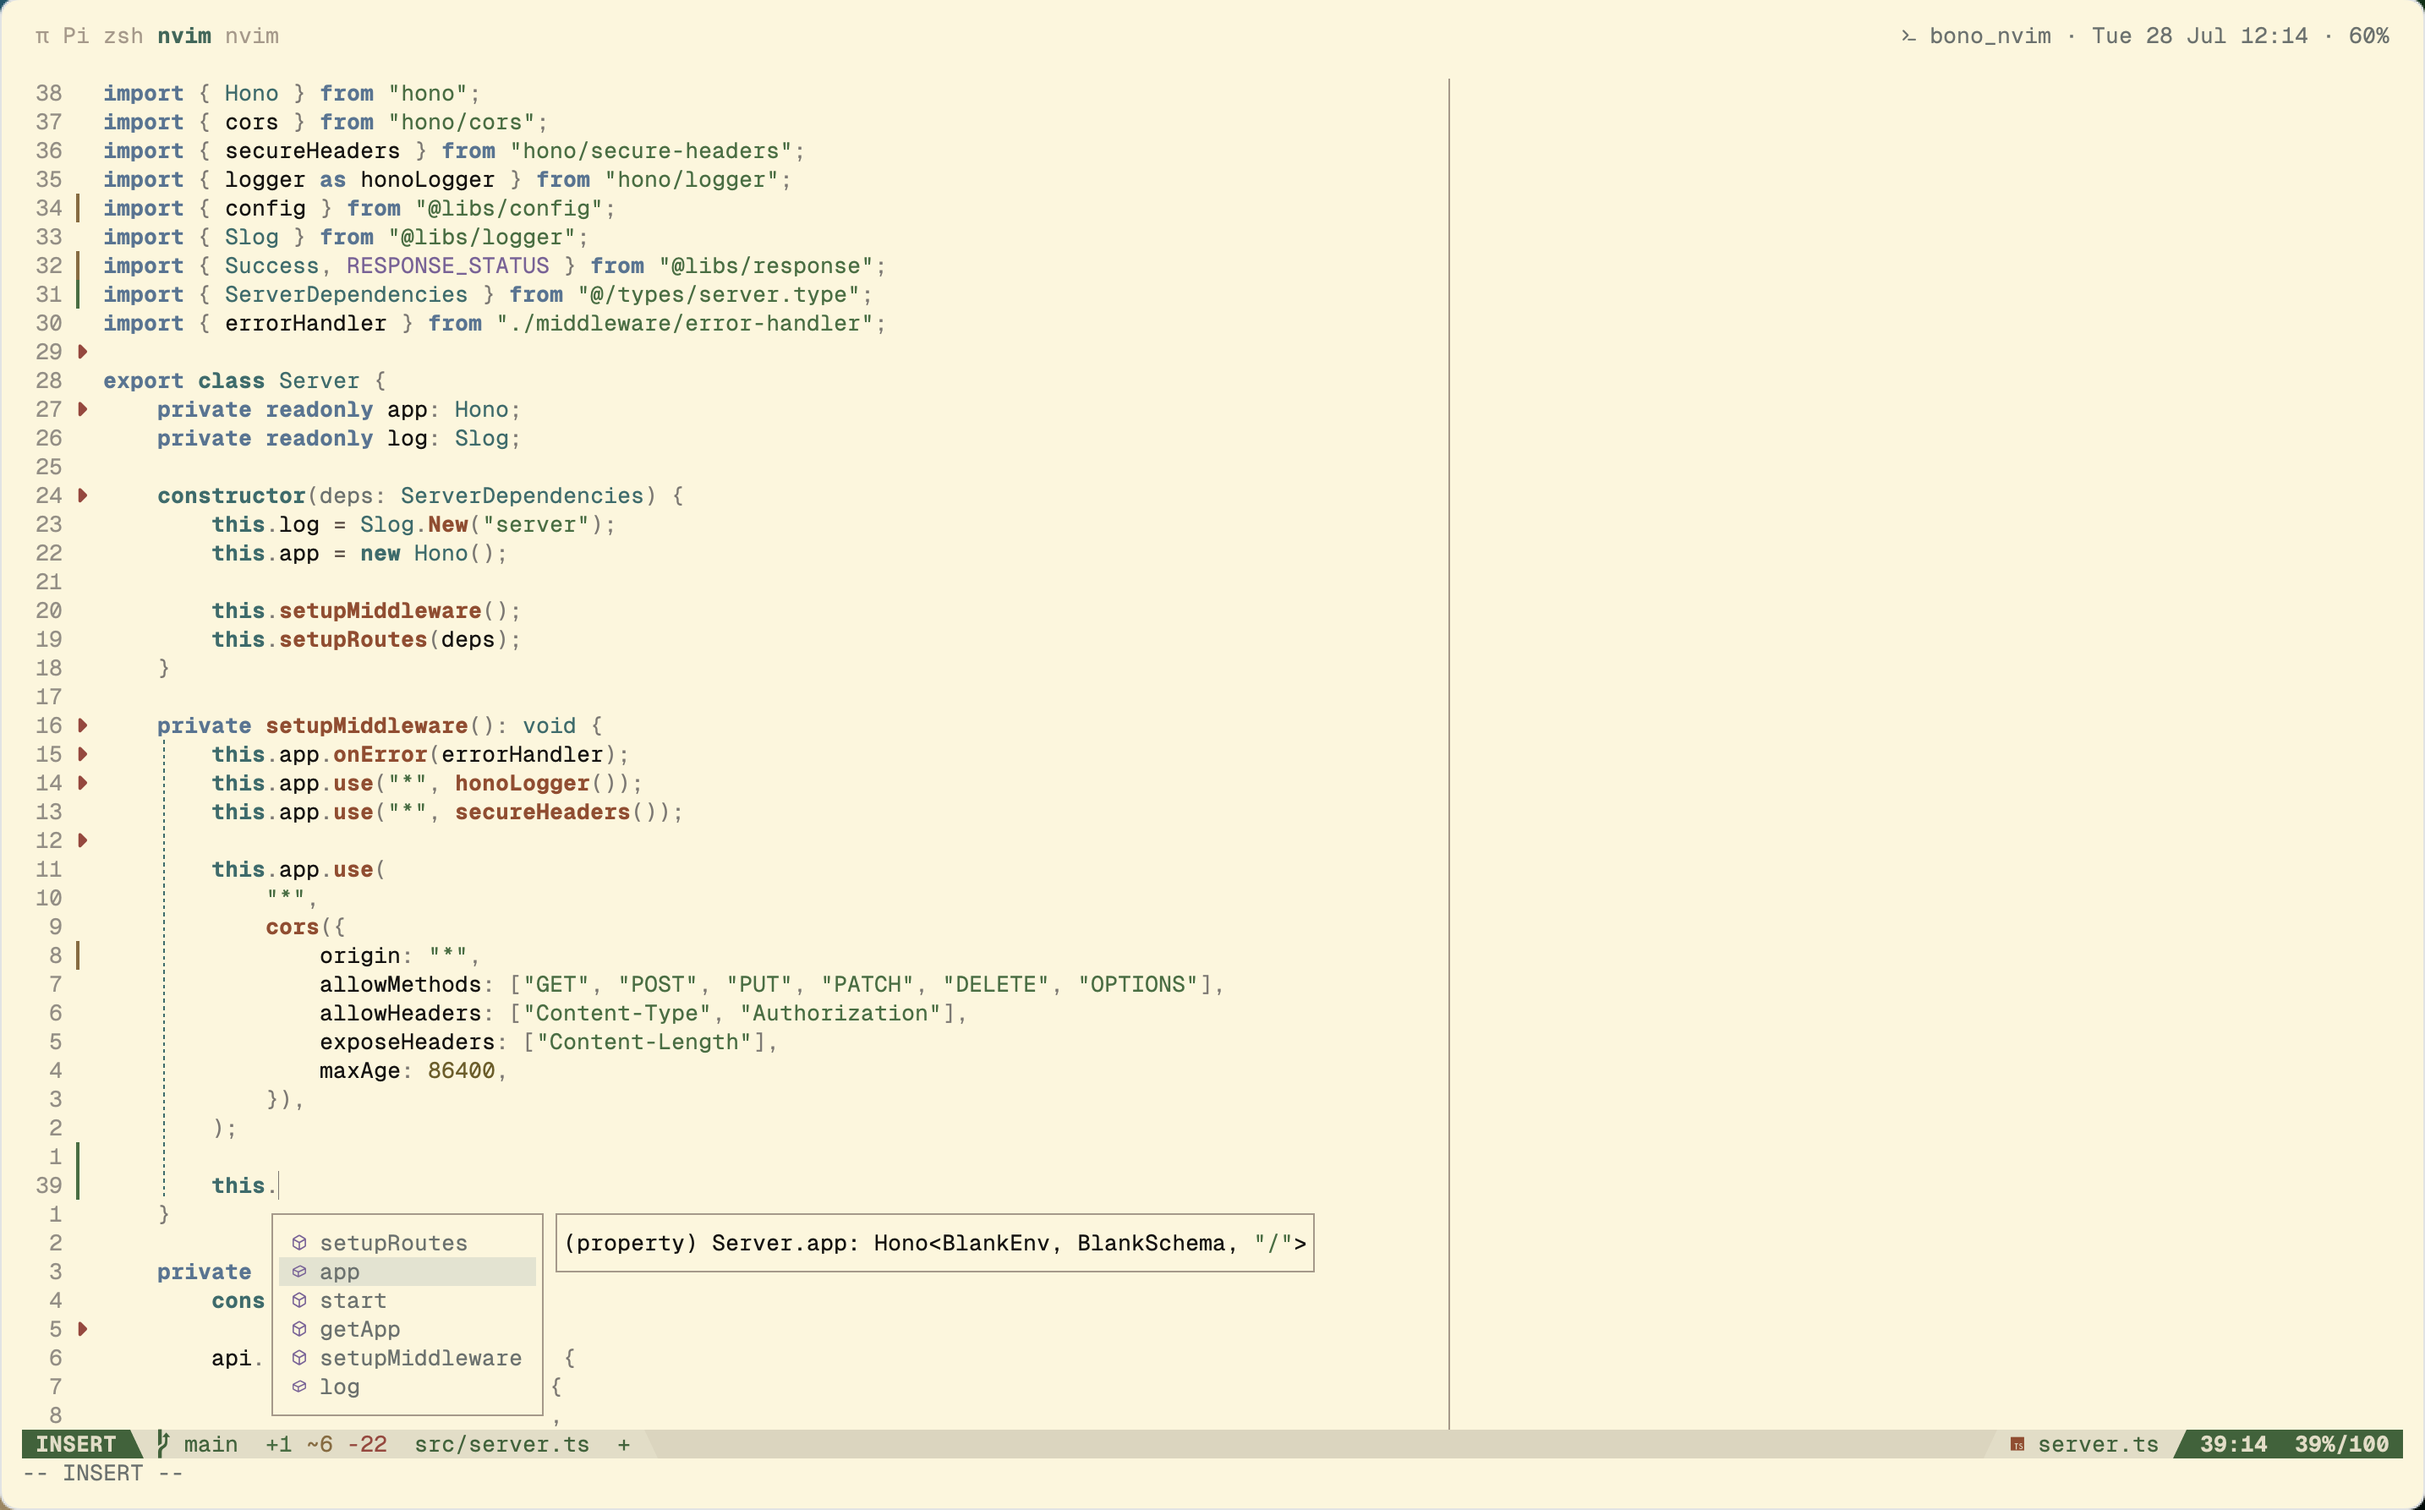
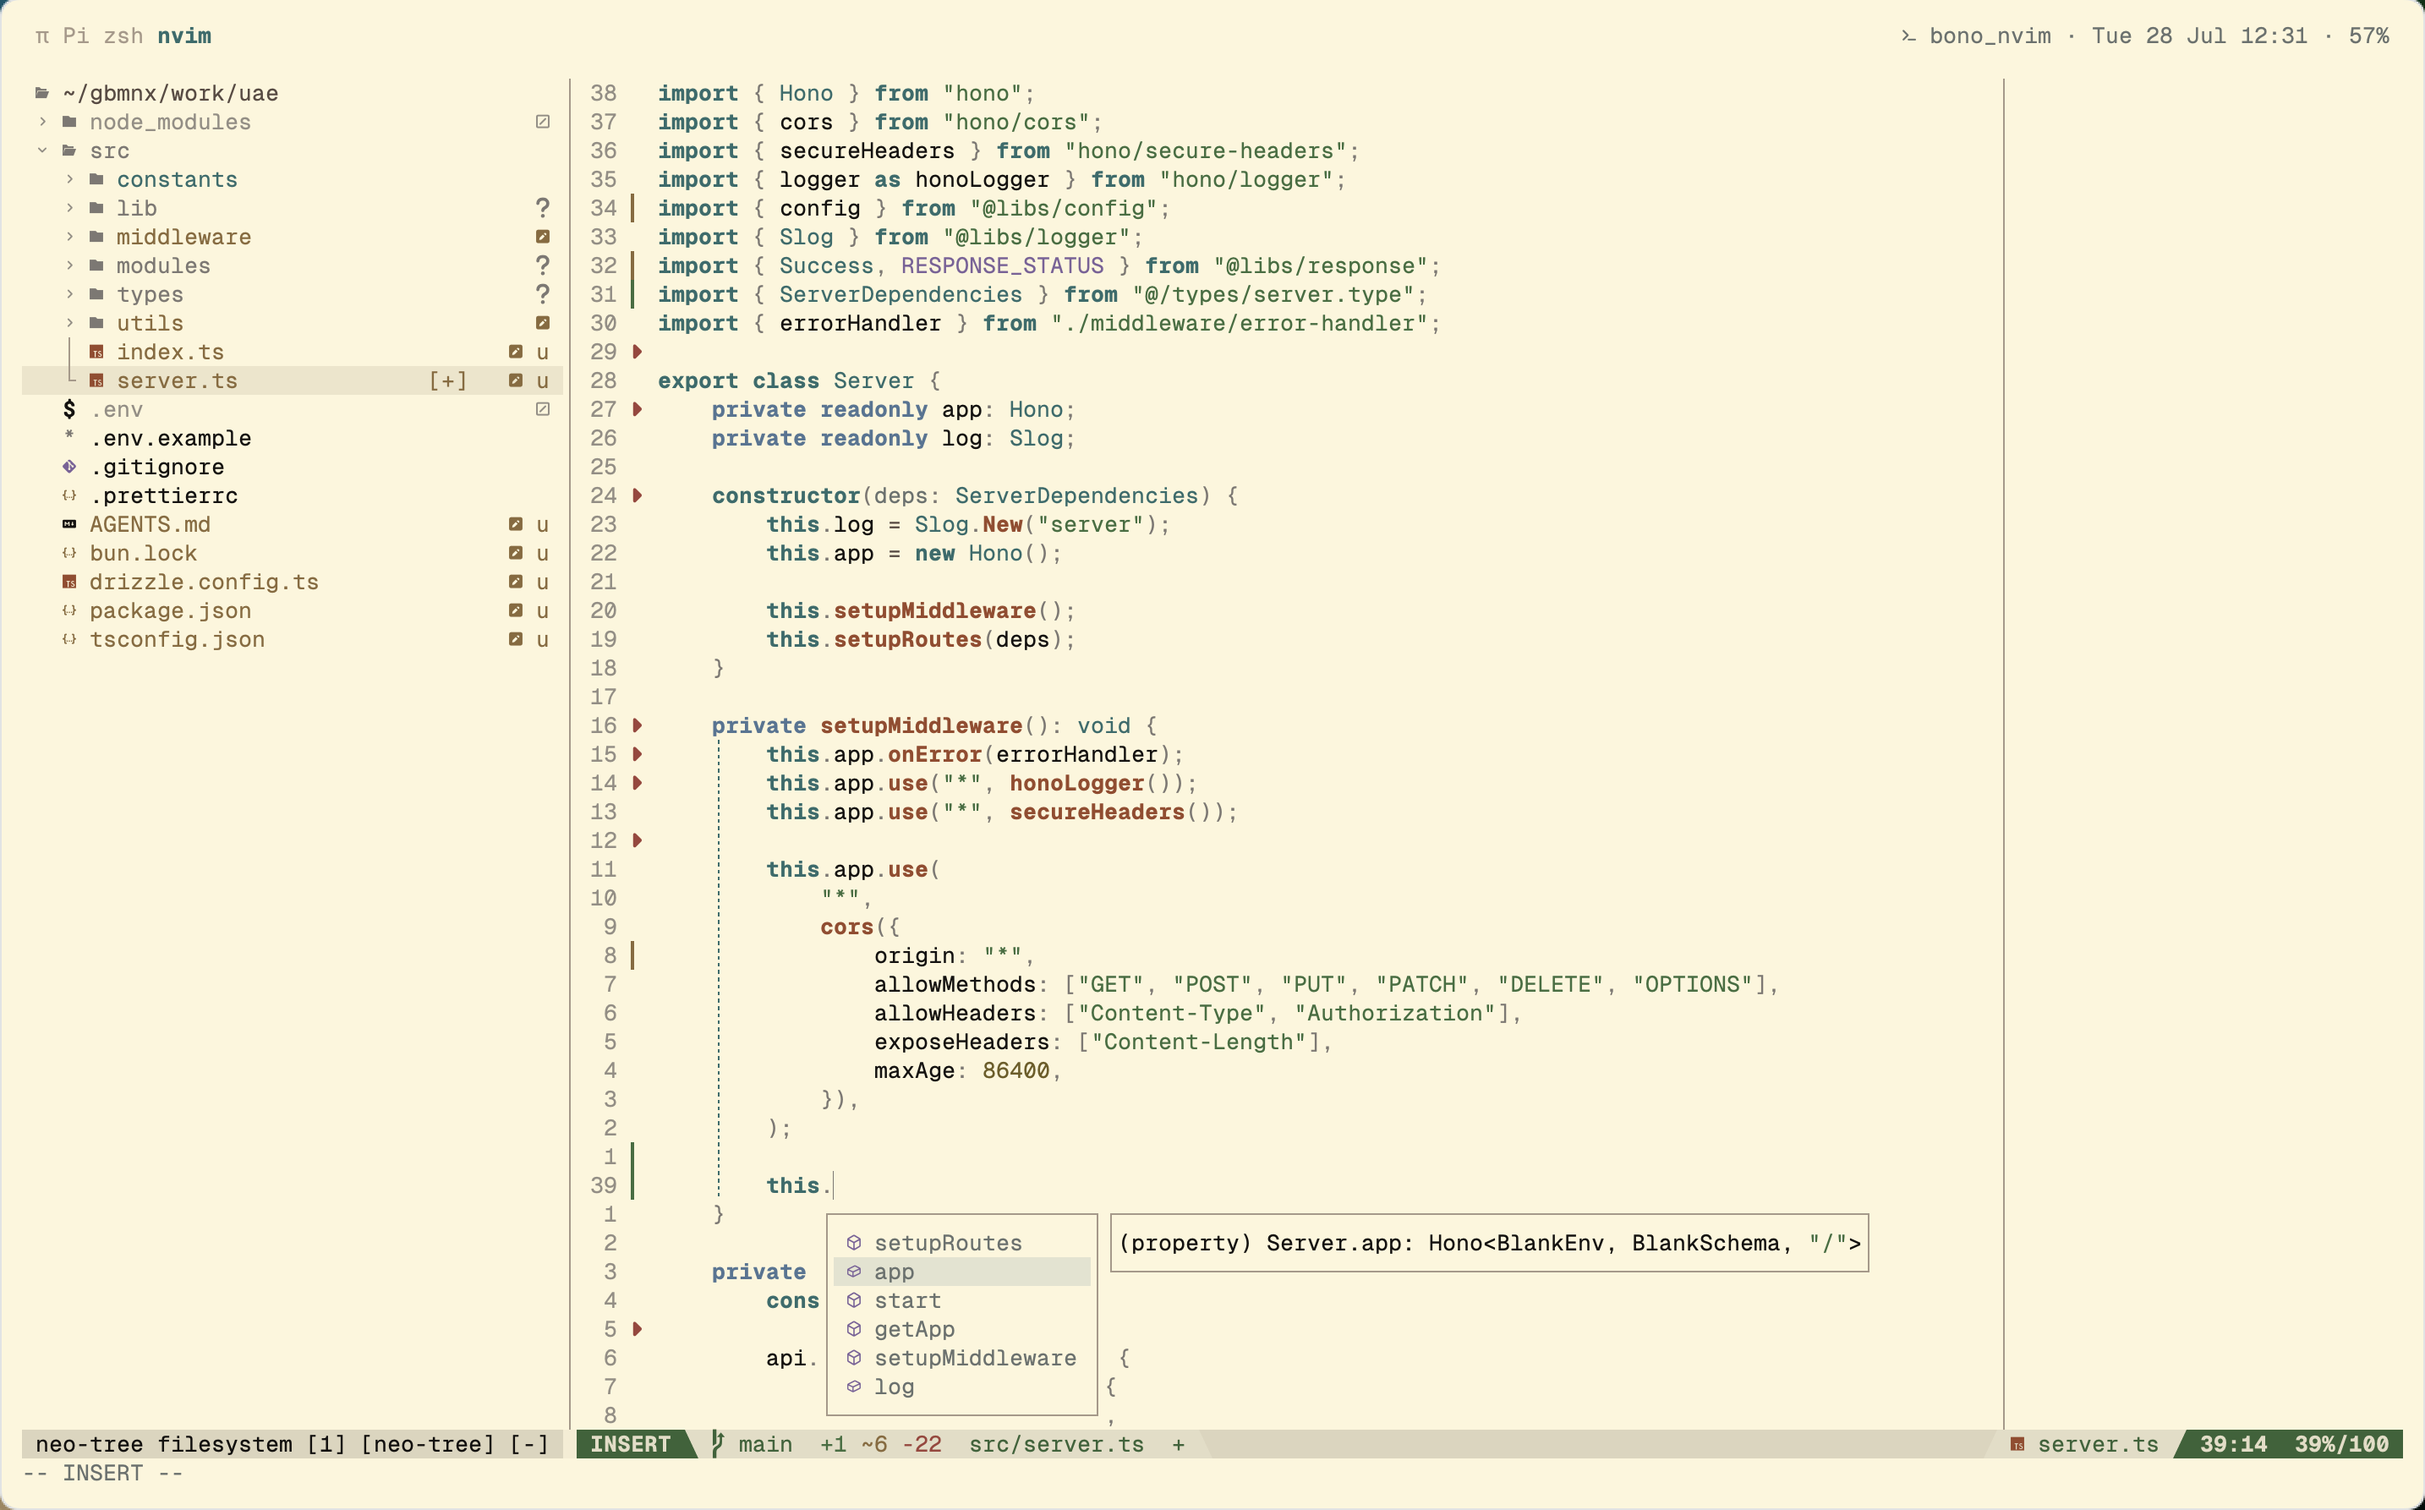
update readm

diff --git a/README.md b/README.md
@@ -6,7 +6,9 @@ A warm muted colorscheme for Neovim — cream (light) and espresso (dark) varian
 
 ![Cream theme preview](assets/cream.png)
 
-Inspired by the structure of [token.nvim](https://github.com/your-username/token.nvim), with its own warm palette.
+*Font: GeistMono · [Tmux config](https://github.com/aadielpr/.config/tree/main/tmux) · [Ghostty theme](https://github.com/aadielpr/.config/blob/main/ghostty/themes/bono-cream.conf) · [Pi theme](https://github.com/aadielpr/.config/blob/main/pi/themes/bono-cream.json)*
+
+Inspired by the structure of [token.nvim](https://github.com/your-username/token.nvim).
 
 ## Installation
 
